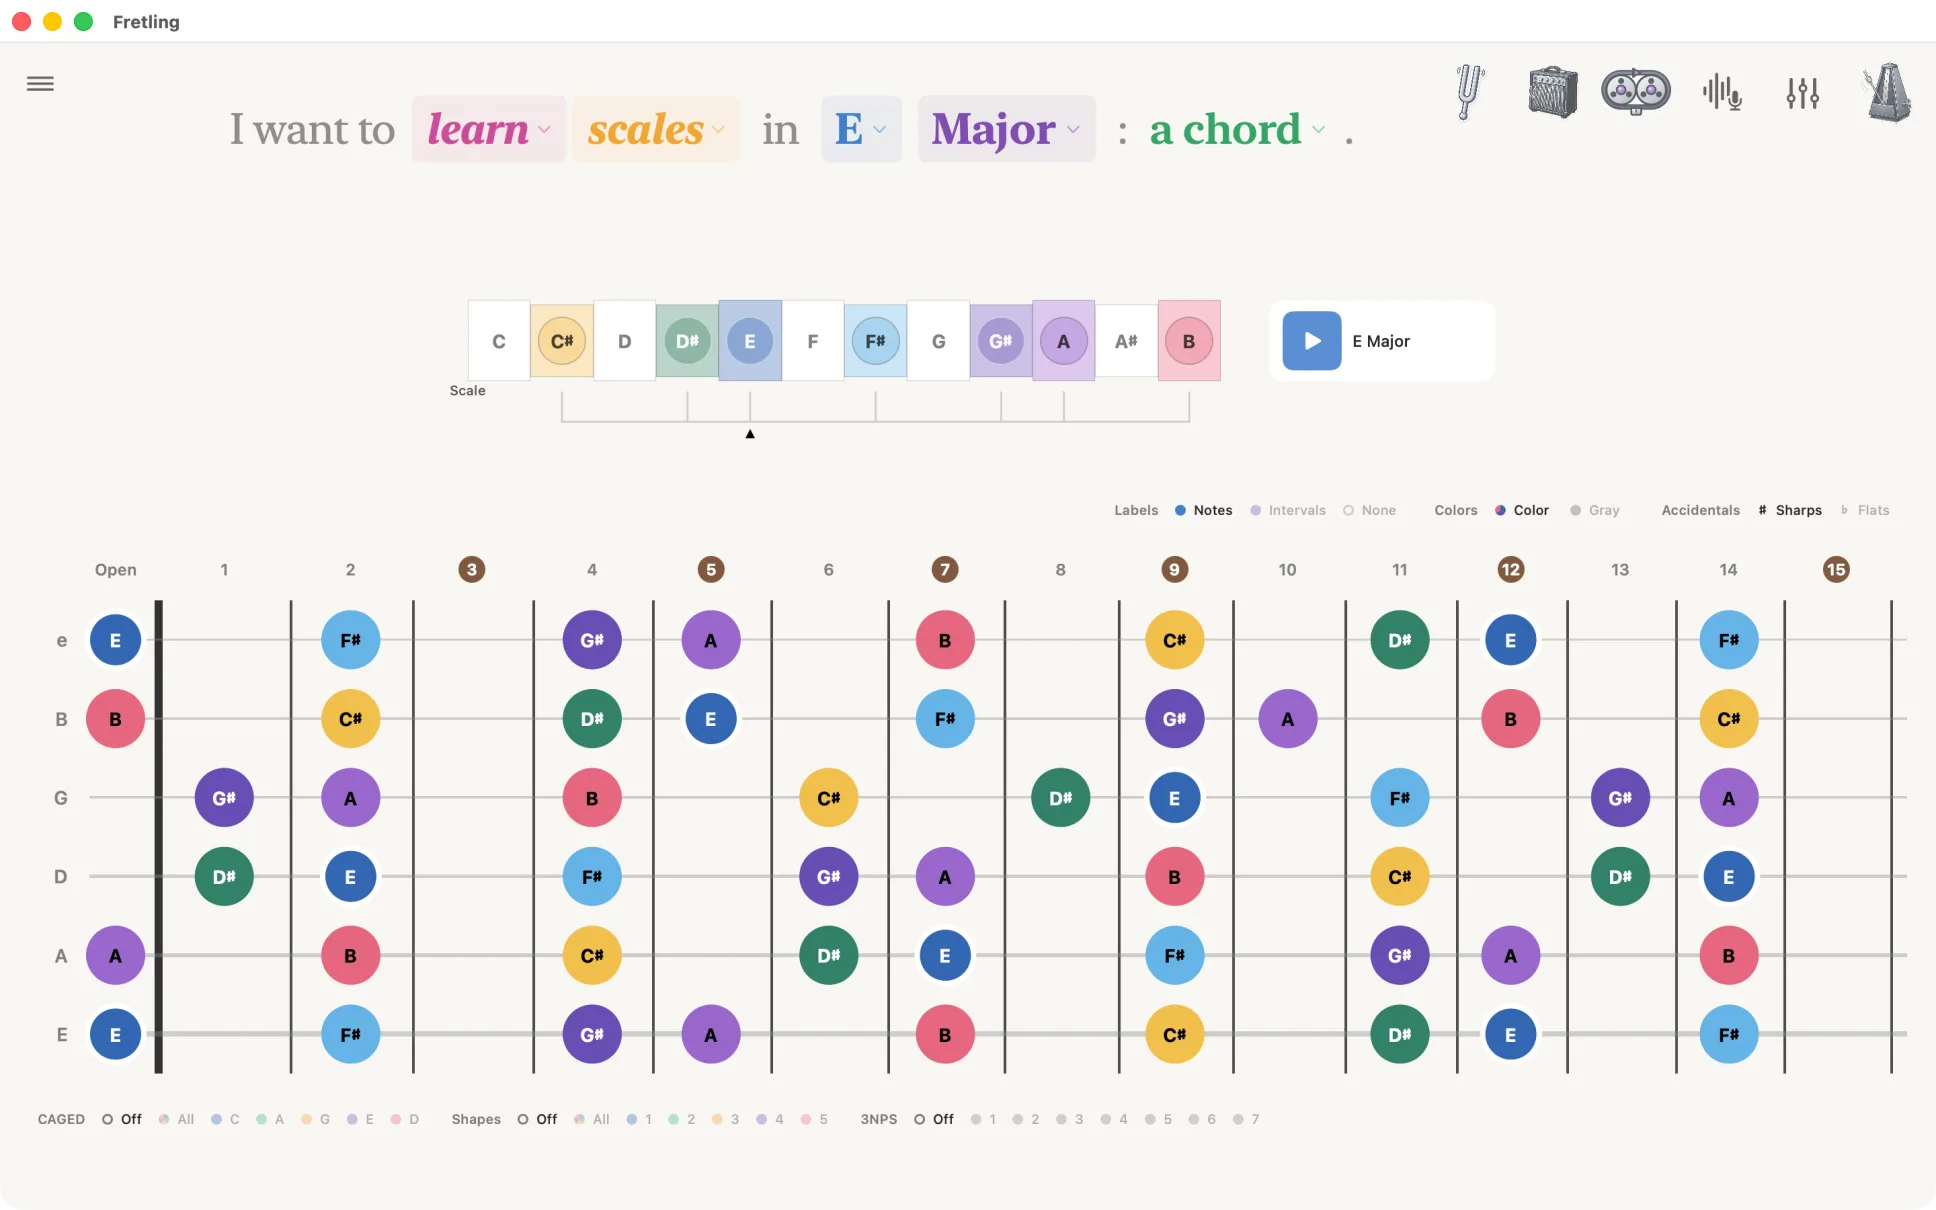
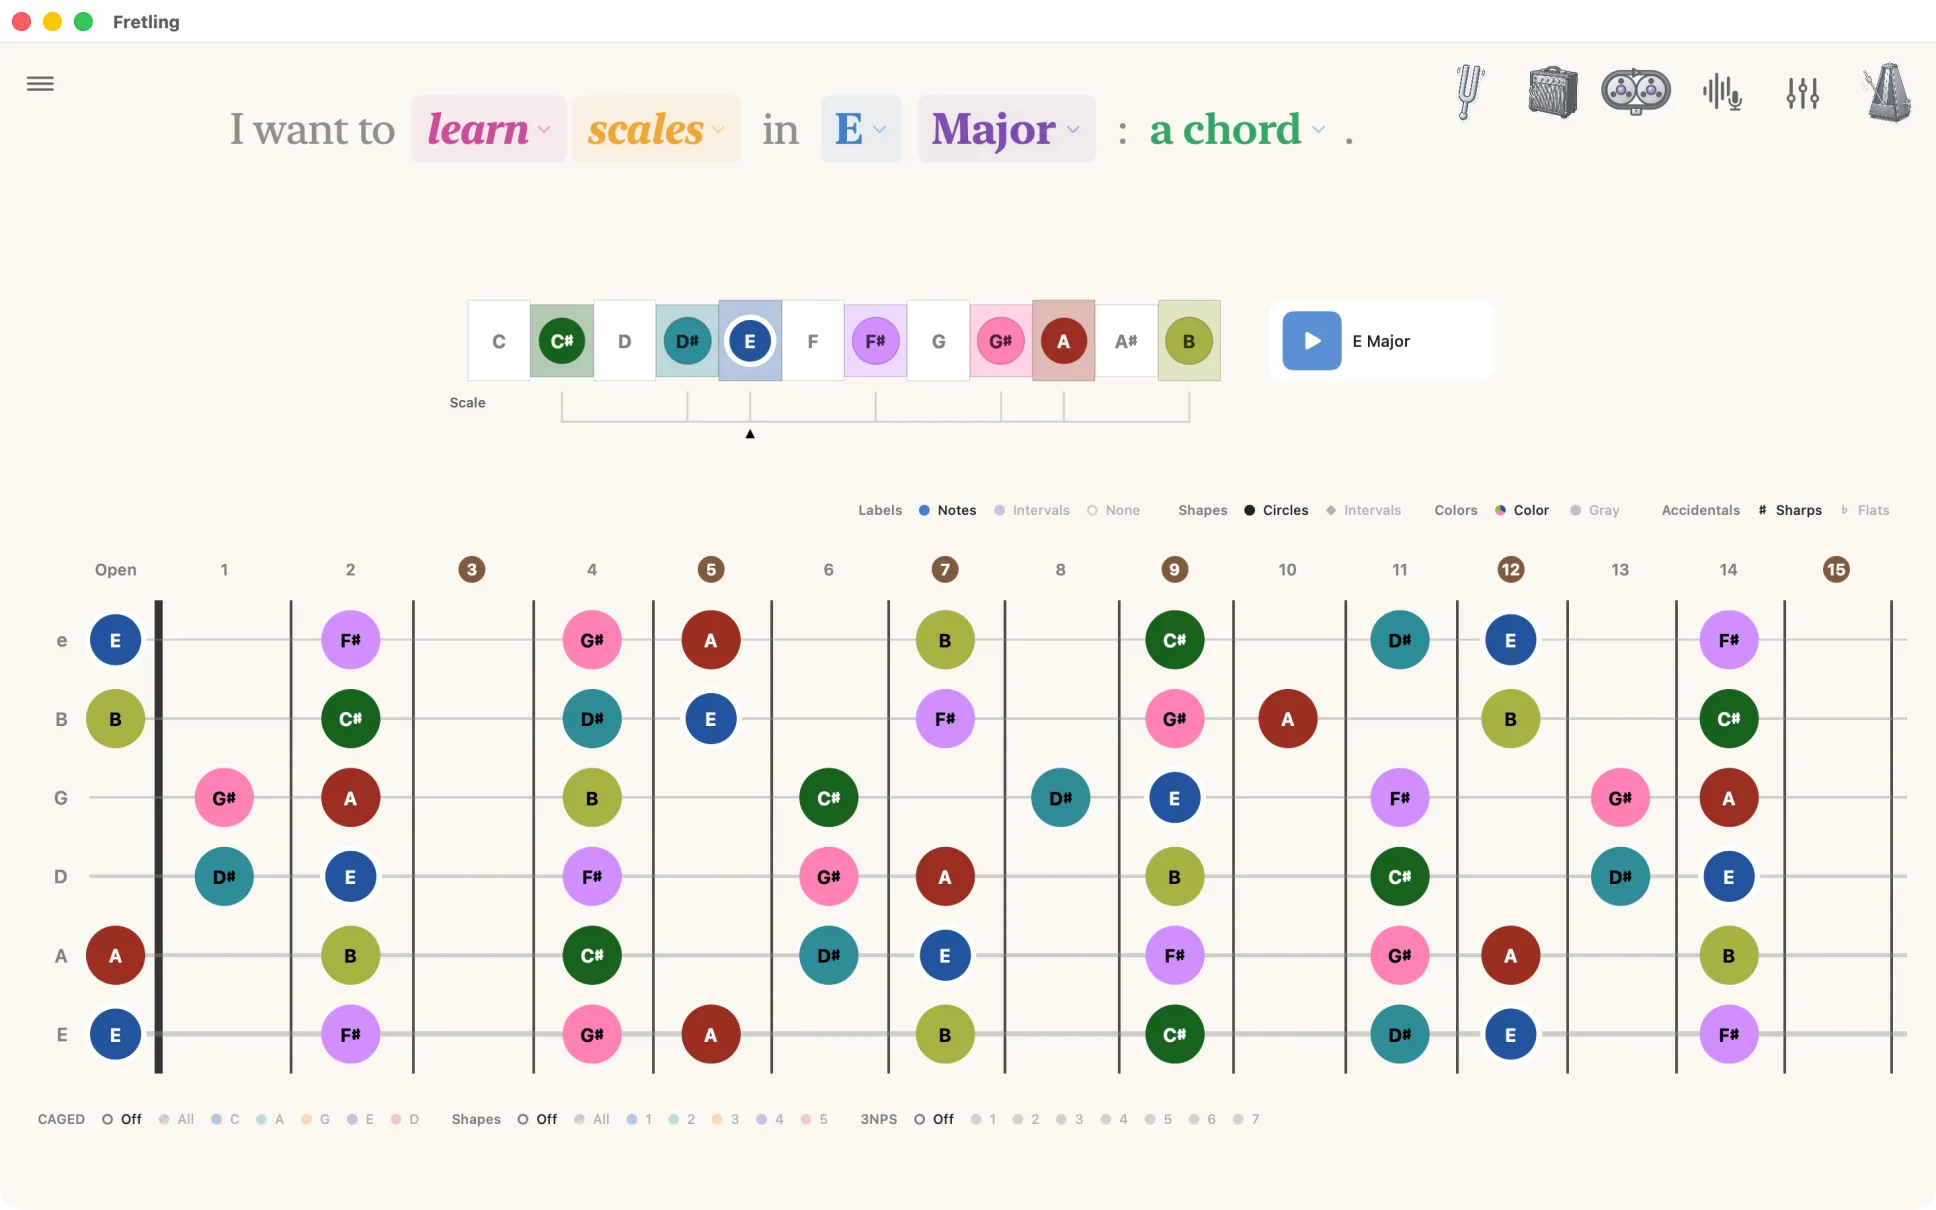
Publish Fretling user guide
Synced from the app repo with scripts/publish-site.sh.

diff --git a/css/styles.css b/css/styles.css
@@ -27,19 +27,23 @@
 :root {
   color-scheme: light;
 
-  /* -- Interval wheel: AppTheme.intervalColors, 0-11 semitones ------------ */
-  --f-int-0:  #3366b3;  /* deepBlue      root      */
-  --f-int-1:  #339999;  /* teal          minor 2nd */
-  --f-int-2:  #66b3e6;  /* lightBlue     major 2nd */
-  --f-int-3:  #804db3;  /* purple        minor 3rd */
-  --f-int-4:  #664db3;  /* indigo        major 3rd */
-  --f-int-5:  #9966cc;  /* violet        perfect 4th */
-  --f-int-6:  #cc4d99;  /* magenta       tritone   */
-  --f-int-7:  #e66680;  /* rose          perfect 5th */
-  --f-int-8:  #f29933;  /* amber         minor 6th */
-  --f-int-9:  #f2bf4d;  /* gold          major 6th */
-  --f-int-10: #33b380;  /* emerald       minor 7th */
-  --f-int-11: #338066;  /* forestGreen   major 7th */
+  /* -- Interval wheel: ColorPalette.IntervalWheel.light, 0-11 semitones ----
+     Built, not picked: hue advances 30 degrees per semitone from the root's
+     blue, and each fill takes one of three lightness bands so no two chromatic
+     neighbors share one. Mirror the Swift values exactly -- the guide's
+     screenshots sit beside the swatches. */
+  --f-int-0:  #22539d;  /* hue 216  deep    root      */
+  --f-int-1:  #7a6cfe;  /* hue 246  mid     minor 2nd */
+  --f-int-2:  #d18eff;  /* hue 276  bright  major 2nd */
+  --f-int-3:  #d540c7;  /* hue 306  mid     minor 3rd */
+  --f-int-4:  #fe81b3;  /* hue 336  bright  major 3rd */
+  --f-int-5:  #9b2e22;  /* hue   6  deep    perfect 4th */
+  --f-int-6:  #a77832;  /* hue  36  mid     tritone   */
+  --f-int-7:  #a6b143;  /* hue  66  bright  perfect 5th */
+  --f-int-8:  #54902b;  /* hue  96  mid     minor 6th */
+  --f-int-9:  #16621d;  /* hue 126  deep    major 6th */
+  --f-int-10: #48bd8f;  /* hue 156  bright  minor 7th */
+  --f-int-11: #2e8d98;  /* hue 186  mid     major 7th */
 
   /* -- Header accents: the sentence at the top of the app ----------------- */
   --f-accent-intent: #cc4d99;  /* magenta        — learn / identify */
@@ -144,10 +148,12 @@
   :root:not([data-theme="light"]) {
     color-scheme: dark;
 
-    --f-int-0:  #6699e6;  --f-int-1:  #4db3b3;  --f-int-2:  #66b3e6;
-    --f-int-3:  #9966cc;  --f-int-4:  #664db3;  --f-int-5:  #9966cc;
-    --f-int-6:  #cc4d99;  --f-int-7:  #ff8099;  --f-int-8:  #ffb34d;
-    --f-int-9:  #f2bf4d;  --f-int-10: #4dcc99;  --f-int-11: #33b380;
+    /* ColorPalette.IntervalWheel.dark -- the same wheel and the same bands,
+       lifted for a dark canvas. */
+    --f-int-0:  #3368b7;  --f-int-1:  #8c7ffe;  --f-int-2:  #daa2fe;
+    --f-int-3:  #e653d8;  --f-int-4:  #fe9ac2;  --f-int-5:  #b74033;
+    --f-int-6:  #b78842;  --f-int-7:  #b5c054;  --f-int-8:  #62a03a;
+    --f-int-9:  #22782a;  --f-int-10: #5acc9f;  --f-int-11: #3c9da8;
 
     --f-accent-intent: #e66bbf;  /* darkThemeMagenta */
     --f-accent-mode:   #ffb34d;  /* darkThemeAmber — lifted for dark ground */
@@ -191,10 +197,10 @@
 :root[data-theme="dark"] {
   color-scheme: dark;
 
-  --f-int-0:  #6699e6;  --f-int-1:  #4db3b3;  --f-int-2:  #66b3e6;
-  --f-int-3:  #9966cc;  --f-int-4:  #664db3;  --f-int-5:  #9966cc;
-  --f-int-6:  #cc4d99;  --f-int-7:  #ff8099;  --f-int-8:  #ffb34d;
-  --f-int-9:  #f2bf4d;  --f-int-10: #4dcc99;  --f-int-11: #33b380;
+  --f-int-0:  #3368b7;  --f-int-1:  #8c7ffe;  --f-int-2:  #daa2fe;
+  --f-int-3:  #e653d8;  --f-int-4:  #fe9ac2;  --f-int-5:  #b74033;
+  --f-int-6:  #b78842;  --f-int-7:  #b5c054;  --f-int-8:  #62a03a;
+  --f-int-9:  #22782a;  --f-int-10: #5acc9f;  --f-int-11: #3c9da8;
 
   --f-accent-intent: #e66bbf;
   --f-accent-mode:   #ffb34d;
@@ -561,10 +567,10 @@ main > h1 { margin-bottom: var(--s-5); }
    ------------------------------------------------------------------ */
 
 .hero {
-  --f-int-0:  #6699e6;  --f-int-1:  #4db3b3;  --f-int-2:  #66b3e6;
-  --f-int-3:  #9966cc;  --f-int-4:  #664db3;  --f-int-5:  #9966cc;
-  --f-int-6:  #cc4d99;  --f-int-7:  #ff8099;  --f-int-8:  #ffb34d;
-  --f-int-9:  #f2bf4d;  --f-int-10: #4dcc99;  --f-int-11: #33b380;
+  --f-int-0:  #3368b7;  --f-int-1:  #8c7ffe;  --f-int-2:  #daa2fe;
+  --f-int-3:  #e653d8;  --f-int-4:  #fe9ac2;  --f-int-5:  #b74033;
+  --f-int-6:  #b78842;  --f-int-7:  #b5c054;  --f-int-8:  #62a03a;
+  --f-int-9:  #22782a;  --f-int-10: #5acc9f;  --f-int-11: #3c9da8;
 
   --f-accent-intent: #e66bbf;
   --f-accent-mode:   #ffb34d;
@@ -604,9 +610,6 @@ main > h1 { margin-bottom: var(--s-5); }
   color: var(--f-ink-body);
   overflow: hidden;
 }
-
-/* The dark wheel is lighter than the light one: three tones take black labels. */
-.hero .fb-t-0, .hero .fb-t-3, .hero .fb-t-11 { --m-text: #000000; }
 
 /*
   A single warm bloom behind the neck, thrown from the amber the app uses for
@@ -1472,26 +1475,21 @@ a.toggle-chip:hover { opacity: 1; text-decoration: none; }
 .fb-t-0  { --m-fill: var(--f-int-0);  --m-text: #ffffff; }
 .fb-t-1  { --m-fill: var(--f-int-1);  --m-text: #000000; }
 .fb-t-2  { --m-fill: var(--f-int-2);  --m-text: #000000; }
-.fb-t-3  { --m-fill: var(--f-int-3);  --m-text: #ffffff; }
-.fb-t-4  { --m-fill: var(--f-int-4);  --m-text: #ffffff; }
-.fb-t-5  { --m-fill: var(--f-int-5);  --m-text: #000000; }
+.fb-t-3  { --m-fill: var(--f-int-3);  --m-text: #000000; }
+.fb-t-4  { --m-fill: var(--f-int-4);  --m-text: #000000; }
+.fb-t-5  { --m-fill: var(--f-int-5);  --m-text: #ffffff; }
 .fb-t-6  { --m-fill: var(--f-int-6);  --m-text: #000000; }
 .fb-t-7  { --m-fill: var(--f-int-7);  --m-text: #000000; }
 .fb-t-8  { --m-fill: var(--f-int-8);  --m-text: #000000; }
-.fb-t-9  { --m-fill: var(--f-int-9);  --m-text: #000000; }
+.fb-t-9  { --m-fill: var(--f-int-9);  --m-text: #ffffff; }
 .fb-t-10 { --m-fill: var(--f-int-10); --m-text: #000000; }
-.fb-t-11 { --m-fill: var(--f-int-11); --m-text: #ffffff; }
+.fb-t-11 { --m-fill: var(--f-int-11); --m-text: #000000; }
 .fb-t-gray { --m-fill: var(--f-gray-fill); --m-text: var(--f-gray-text); }
 
-/* The dark wheel is lighter: only indigo still carries white. */
-@media (prefers-color-scheme: dark) {
-  :root:not([data-theme="light"]) .fb-t-0,
-  :root:not([data-theme="light"]) .fb-t-3,
-  :root:not([data-theme="light"]) .fb-t-11 { --m-text: #000000; }
-}
-:root[data-theme="dark"] .fb-t-0,
-:root[data-theme="dark"] .fb-t-3,
-:root[data-theme="dark"] .fb-t-11 { --m-text: #000000; }
+/* No per-theme override: the deep band (root, perfect 4th, major 6th) is the
+   white-label set in both themes. That is `lightColorSemitones` in the app,
+   which is now one set for light and dark because the ladder is built rather
+   than hand-picked. */
 
 /* ============================================================
    9. Screenshots

diff --git a/fretboard.html b/fretboard.html
@@ -137,6 +137,7 @@
         </table>
       </div>
       <p>Each group is radio-style: one chip is lit, and tapping the lit chip does nothing. On a narrow window the bar scrolls sideways instead of wrapping.</p>
+      <p>Three of the four groups reach past the neck. <strong>Labels</strong>, <strong>Colors</strong> and <strong>Accidentals</strong> also set how the <a href="#timeline">scale timeline</a> and the Chord Atlas read, so a pitch is named, spelled and colored the same way wherever you meet it. (The Atlas keeps note names when Labels is None &mdash; a picker whose options carry no label has nothing to pick by.) <strong>Shapes</strong> is the neck&rsquo;s alone: the timeline and the Atlas draw round markers.</p>
           <figure class="shot">
         <img class="shot-light" src="screenshots/08-marker-bar-notes-light.webp"
              width="1936" height="290" loading="lazy" decoding="async"
@@ -182,9 +183,11 @@
 
       <h3>The interval wheel</h3>
       <p>With <strong>Colors</strong> set to Color, a marker&rsquo;s fill is its distance from the
-      root — the same twelve colors everywhere in the app, so a major third looks like a major
-      third whatever key you are in. Switching the root recolours the whole neck; switching the
-      key does not.</p>
+      key&rsquo;s root — the same twelve colors everywhere in the app, so a major third looks like a
+      major third whatever key you are in. That root is the one anchor: the neck, the timeline and
+      the Chord Atlas all measure from it, and it stays the key&rsquo;s root even while a chord is
+      active, so a pitch keeps a single color across all three. Switching the root recolors the
+      whole neck; switching the scale type does not.</p>
       <figure class="figure">
         <ul class="palette">
           <li><span class="sw fb-t-0" aria-hidden="true">R</span><span class="nm"><b>Root</b>Unison</span></li>

diff --git a/settings.html b/settings.html
@@ -95,10 +95,10 @@
       <figure class="shot">
         <img class="shot-light" src="screenshots/19-settings-fretboard-light.webp"
              width="1936" height="1210" loading="lazy" decoding="async"
-             alt="The settings sidebar open on the Fretboard tab, showing the Appearance, Borrowed Harmony, Markers, Practice Focus and Shape Overlays groups.">
+             alt="The settings sidebar open on the Fretboard tab, showing the Appearance, Borrowed Harmony, Practice Focus and Shape Overlays groups.">
         <img class="shot-dark" src="screenshots/19-settings-fretboard-dark.webp"
              width="1936" height="1210" loading="lazy" decoding="async"
-             alt="The settings sidebar open on the Fretboard tab, showing the Appearance, Borrowed Harmony, Markers, Practice Focus and Shape Overlays groups.">
+             alt="The settings sidebar open on the Fretboard tab, showing the Appearance, Borrowed Harmony, Practice Focus and Shape Overlays groups.">
         <figcaption class="figure-caption">The Fretboard tab, shown in Chords mode so every Shape Overlays row applies.</figcaption>
       </figure>
 
